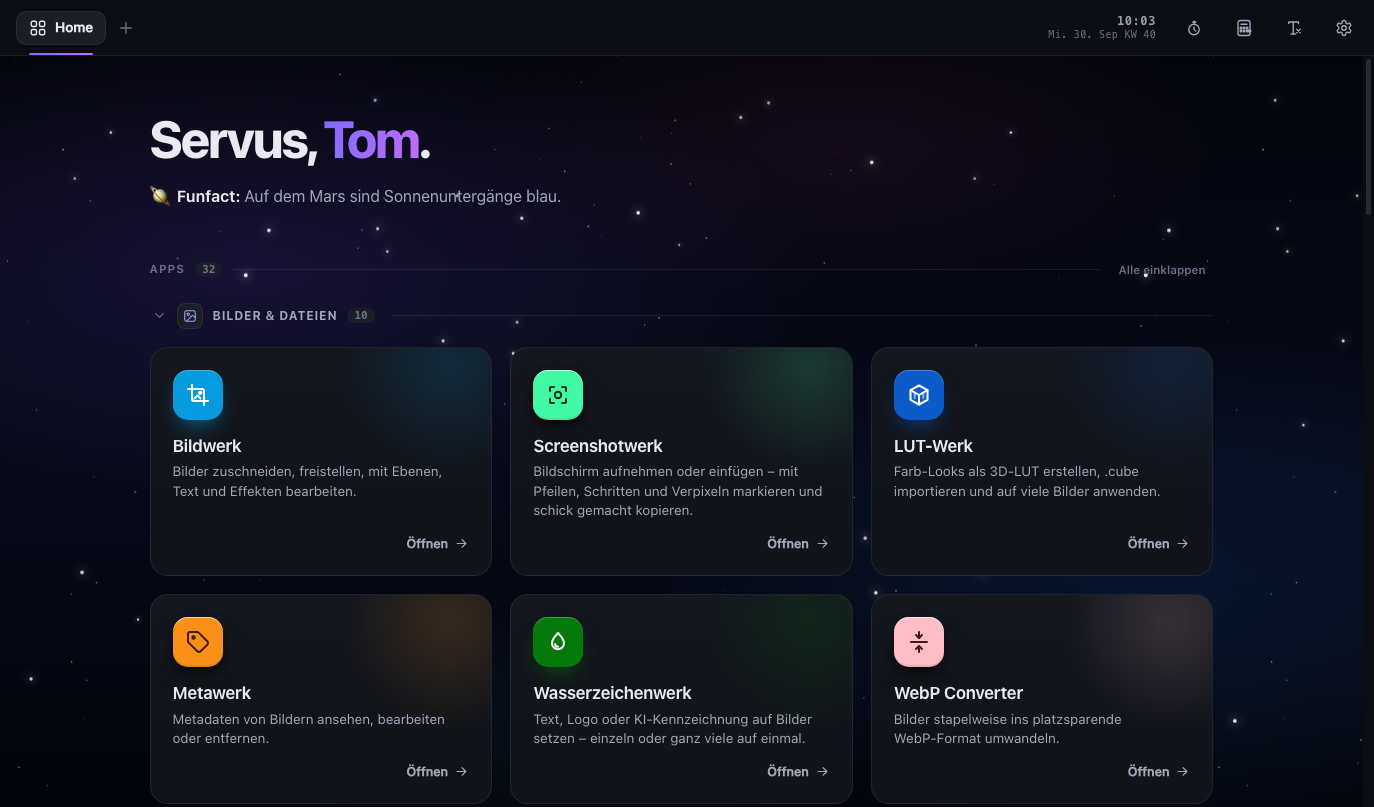
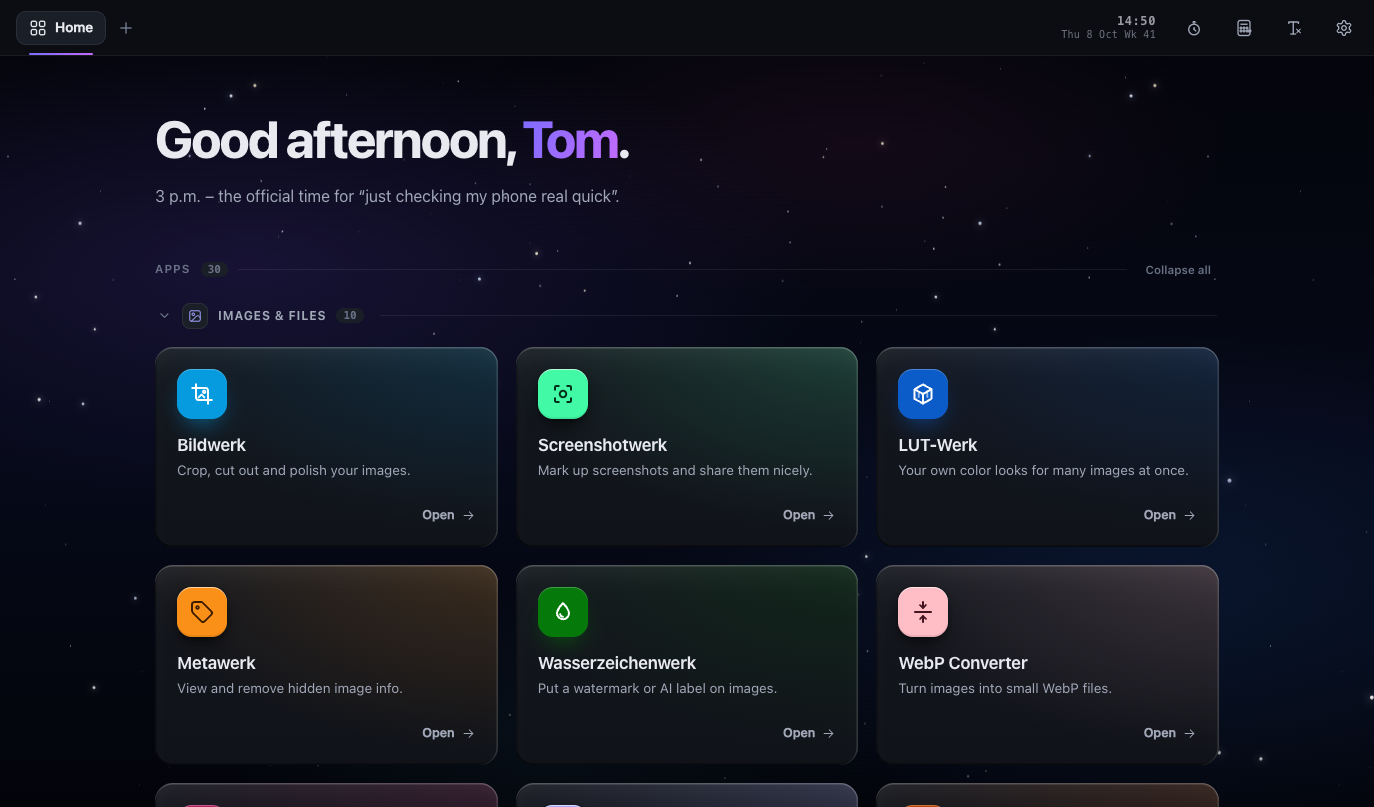
README: Neuerungen-Zeile raus, „open it in your browser and enjoy“, englischer Screenshot

diff --git a/README.md b/README.md
@@ -1,12 +1,10 @@
 # 🧰 Toms Tools
 
-**32 small tools in one HTML file – offline, no install, no admin rights.** 💼 Made for the work PC: keep it on a USB stick or in OneDrive and double-click. **[👉 See all apps](#apps)**
+**32 small tools in one HTML file – offline, no install, no admin rights.** 💼 Made for the work PC: keep it on a USB stick or in OneDrive, open it in your browser and enjoy. **[👉 See all apps](#apps)**
 
 <p align="center">
   <a href="https://github.com/tj537/toms-tools/releases/latest/download/toms-tools.html"><img src="https://img.shields.io/github/v/release/tj537/toms-tools?style=for-the-badge&label=%E2%AC%87%EF%B8%8F%20Download&labelColor=7c6cff&color=c26bff" alt="Download Toms Tools" height="56"></a>
   <a href="https://tj537.github.io/toms-tools/"><img src="https://img.shields.io/badge/%E2%96%B6%EF%B8%8F%20Try%20it%20live-374151?style=for-the-badge" alt="Try Toms Tools live in your browser" height="56"></a>
-  <br>
-  <sub>🆕 <b>1.7.1:</b> the whole interface in English · Harvard &amp; APA citations · Beatwerk WAV export – <a href="https://github.com/tj537/toms-tools/releases/tag/v1.7.1">all changes</a></sub>
 </p>
 
 ![100 % offline](https://img.shields.io/badge/100%25-offline-0ea5e9)
